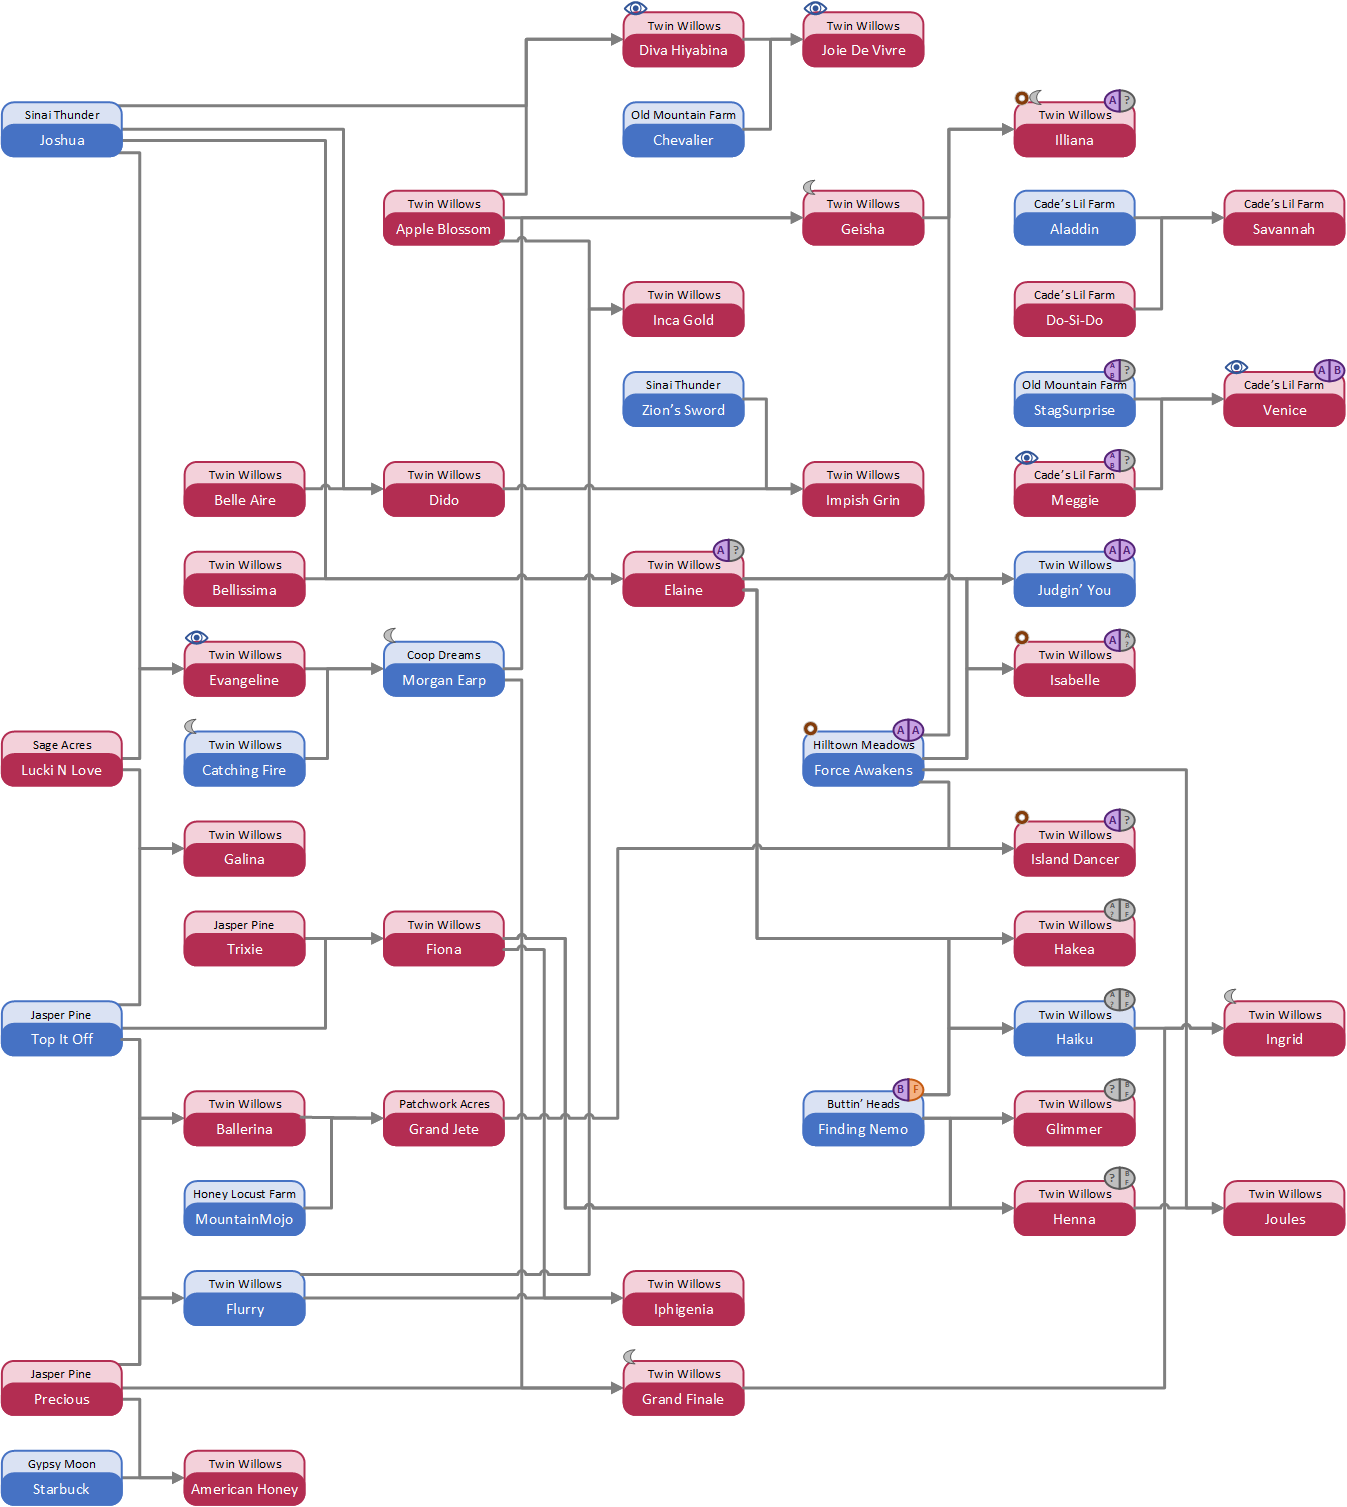
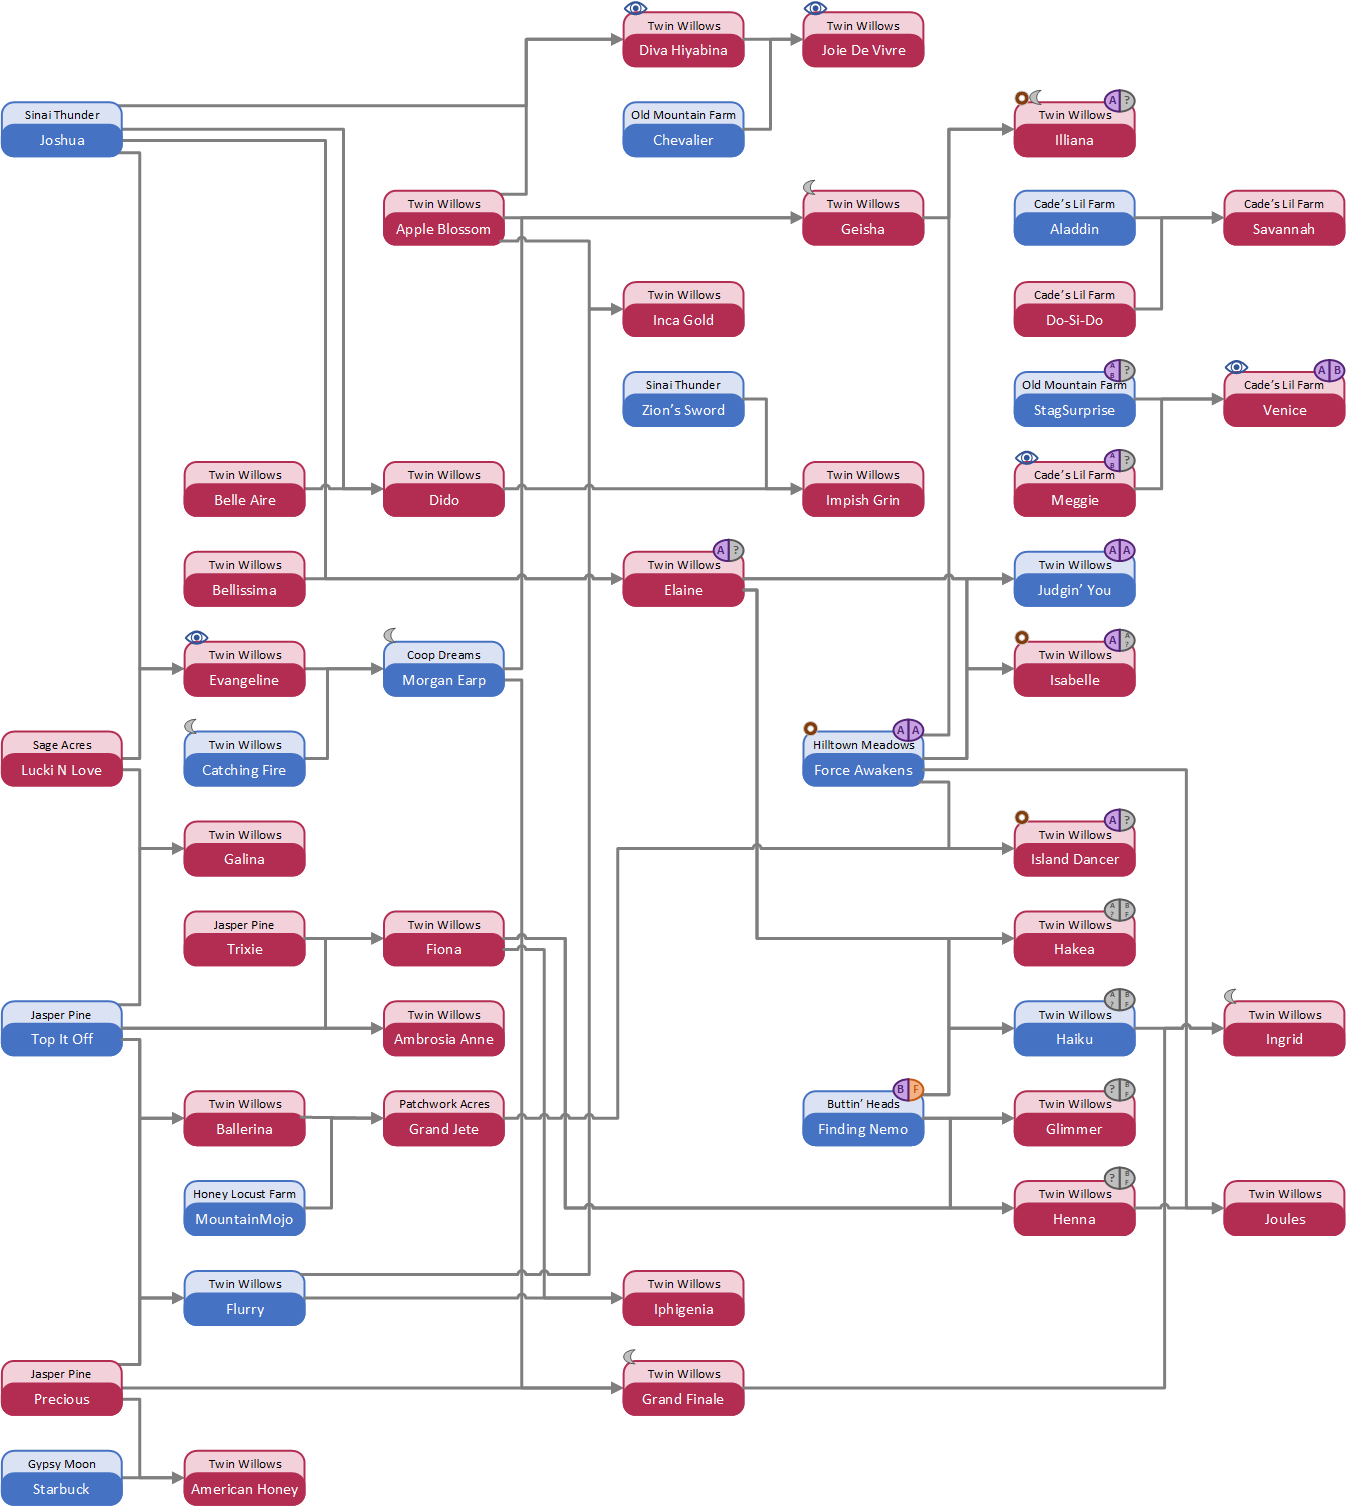
Add Annie to the family tree, publish Pages

diff --git a/docs/README.md b/docs/README.md
@@ -1,0 +1,7 @@
+# The Goat Chick
+* twitch: [@MarysMilkMonsters](https://twitch.tv/MarysMilkMonsters)
+* website: [thegoatchick.com](http://thegoatchick.com)
+* farm: [Twin Willows Farm](http://twinwillowsfarm.net)
+
+## Family Tree
+![Twin Willows Farm Family Tree](../res/TwinWillowsFamilyTree.png)
